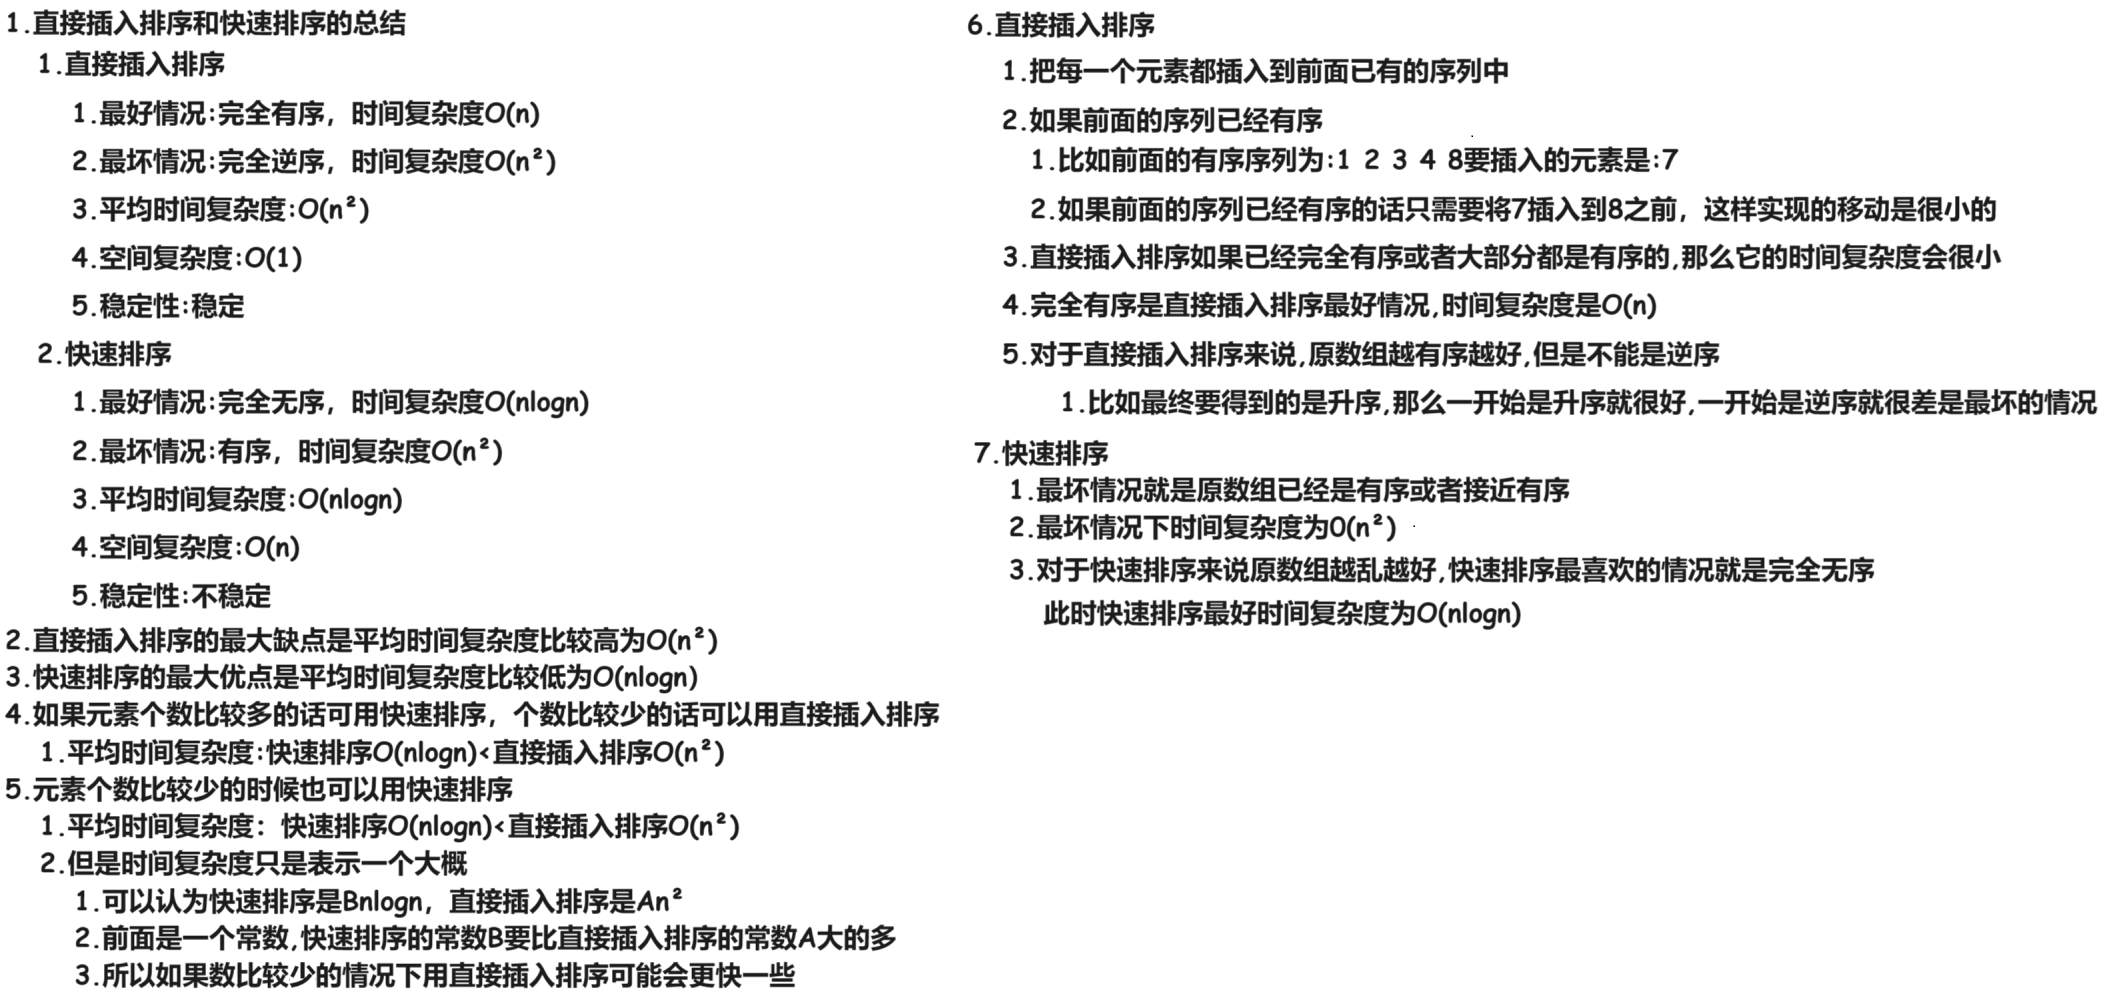
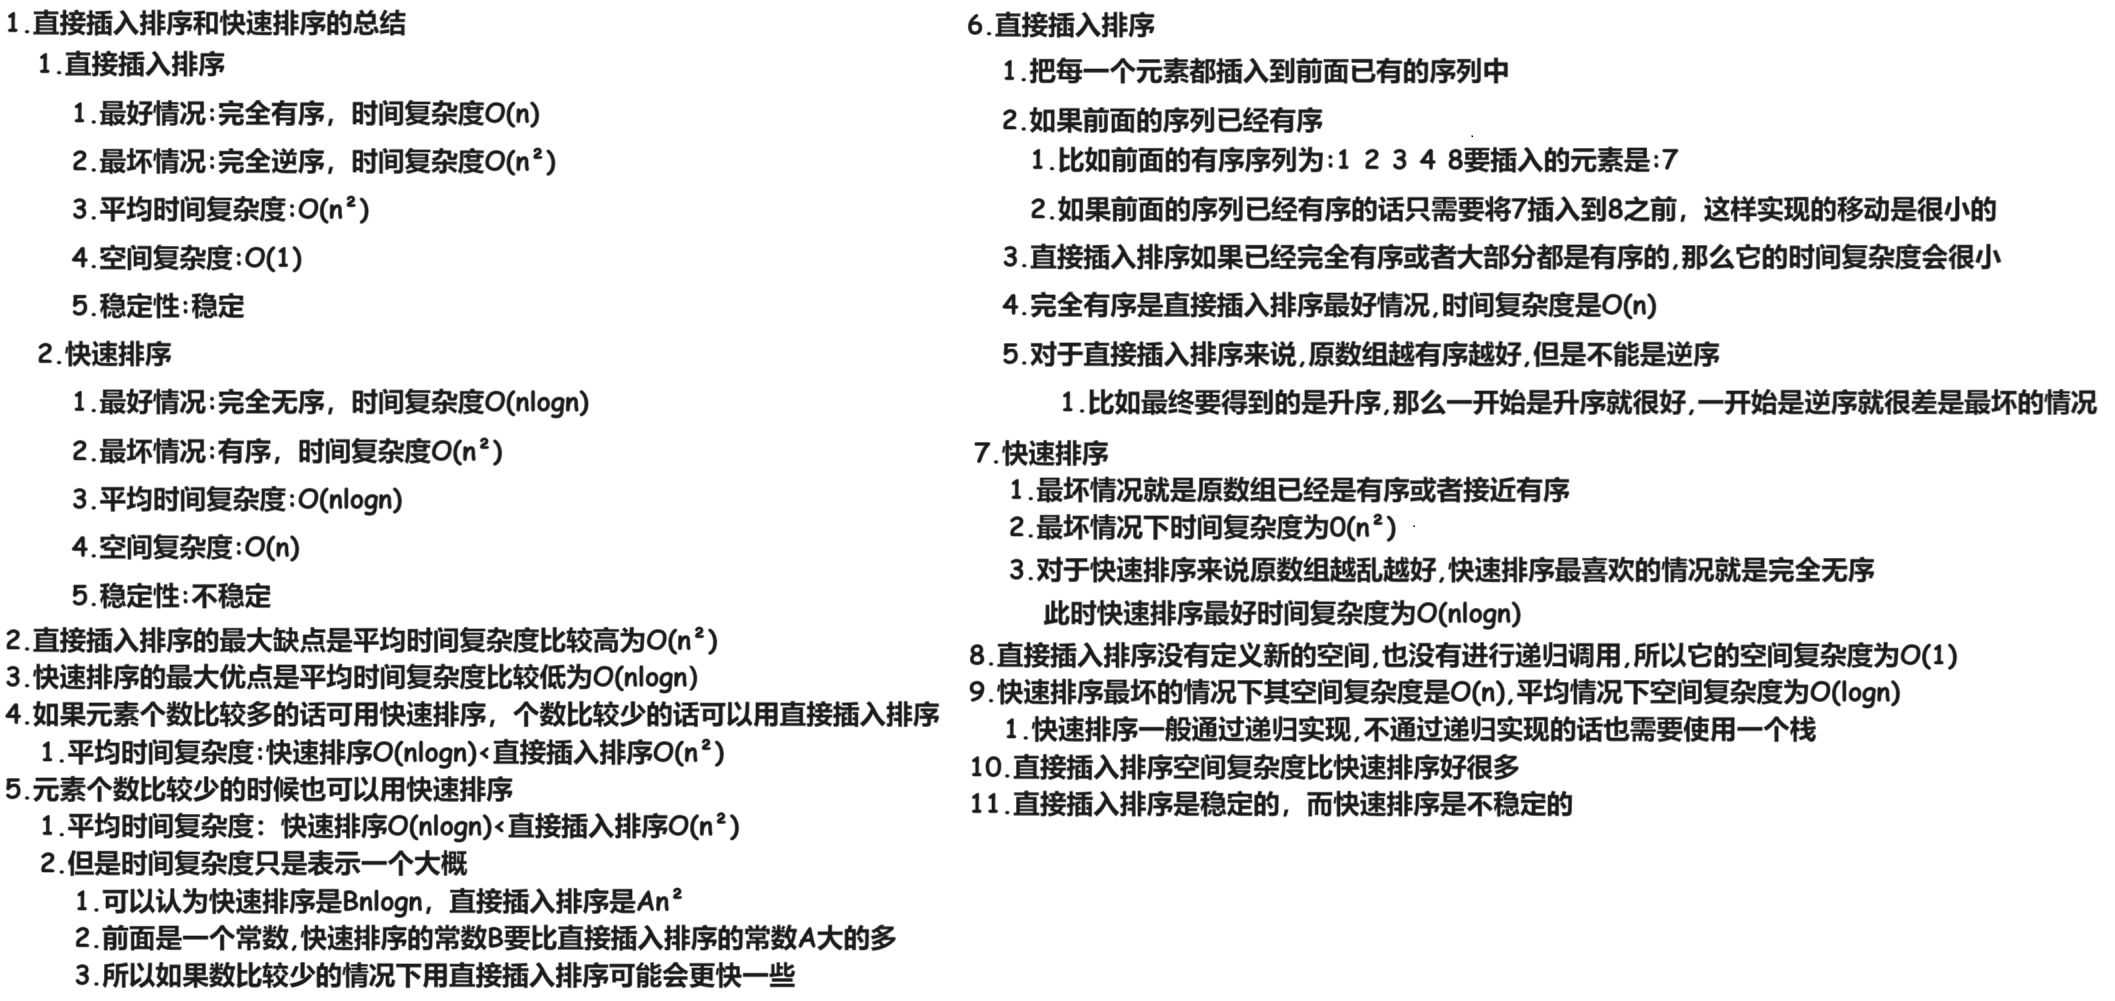
231112

Changed region(s): [[0.0, 0.0929, 0.9986, 0.991], [0.1872, 0.0929, 0.2496, 0.1858]]

diff --git a/04 每日一题/13 22 数据结构【直接插入排序 快速排序】231111/01 Note.md b/04 每日一题/13 22 数据结构【直接插入排序 快速排序】231111/01 Note.md
@@ -1,6 +1,6 @@
 # 背诵
 
-<img src="C:\Users\51532\AppData\Roaming\Typora\typora-user-images\image-20231112180340359.png" alt="image-20231112180340359" style="zoom:50%;" />
+![image-20231112183056001](C:\Users\51532\AppData\Roaming\Typora\typora-user-images\image-20231112183056001.png)
 
 
 
